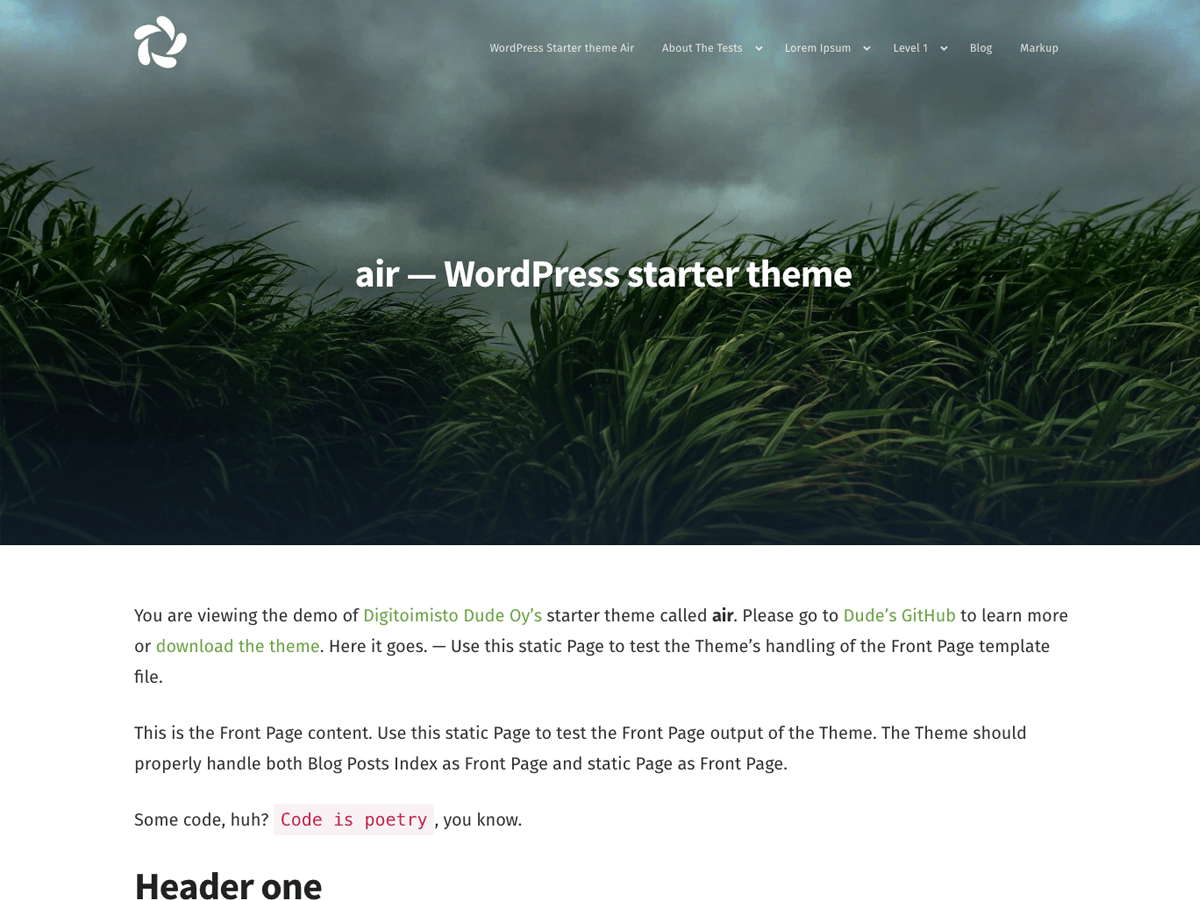
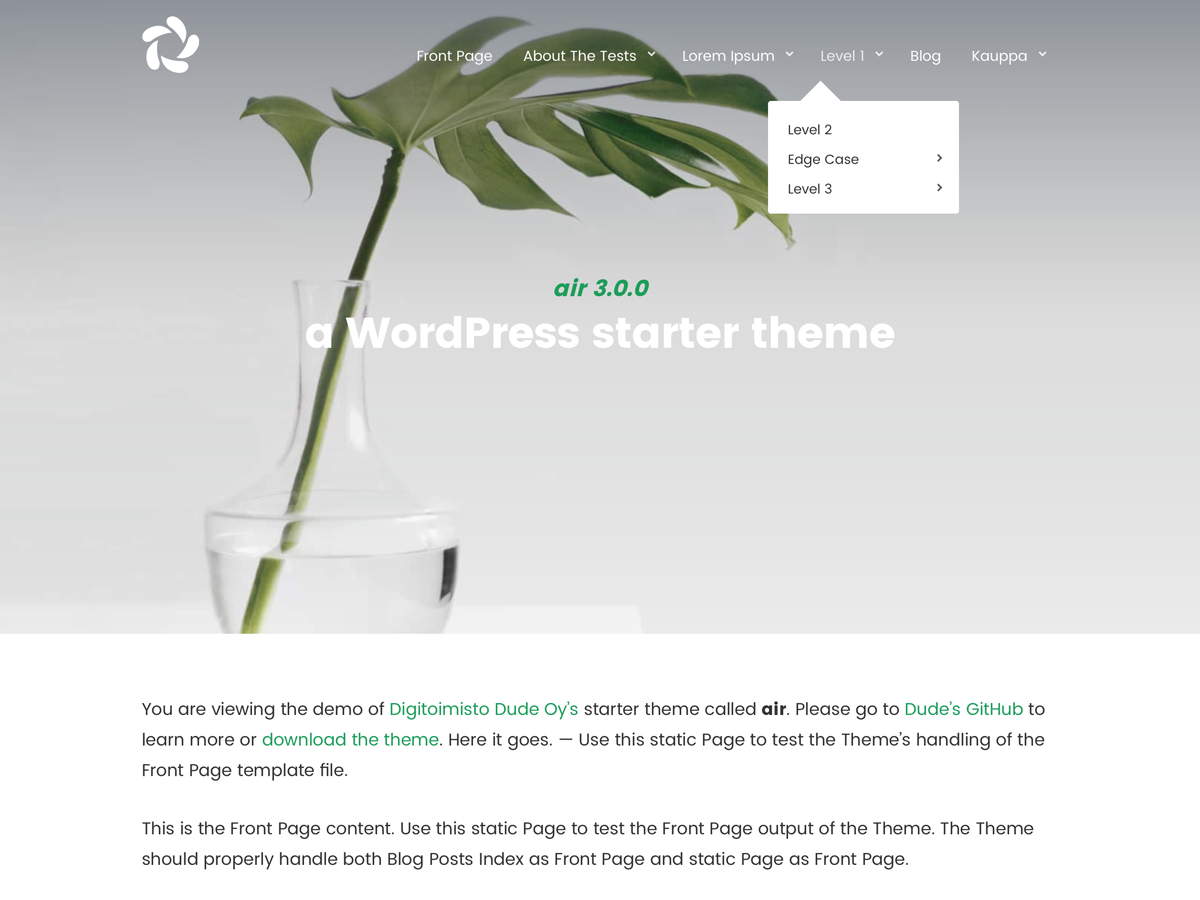
Update screenshots

diff --git a/style.css b/style.css
@@ -4,7 +4,7 @@ Theme URI: https://github.com/digitoimistodude/air
 Author: Digitoimisto Dude Oy
 Author URI: https://www.dude.fi
 Description: A minimalist WordPress starter theme.
-Version: 2.8.0
+Version: 3.0.0
 License: GNU General Public License v2 or later
 License URI: http://www.gnu.org/licenses/gpl-2.0.html
 Text Domain: air

diff --git a/functions.php b/functions.php
@@ -5,7 +5,7 @@
  * @package air
  */
 
-define( 'AIR_VERSION', '2.8.0' );
+define( 'AIR_VERSION', '3.0.0' );
 
 /**
  * Requires.

diff --git a/README.md b/README.md
@@ -10,7 +10,7 @@ Air is designed to be a minimal starting point for a WordPress project at [Digit
 - **JS gzipped:** 3.5 KB *(10.8 KB original)*
 - **Front page HTML**: 7.4 KB *(29.4 KB original)*
 
-![](https://dl.dropboxusercontent.com/u/18447700/air-2.2.2.png "Screenshot")
+![](https://www.dude.fi/air-3.0.0-screenshot.png "Screenshot")
 
 This theme is built to be very straightforward, front end developer friendly and only partly modular by its structure.
 
